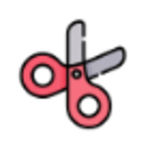
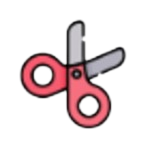
이미지 사이즈 수정

Changed region(s): [[0.1067, 0.1067, 0.8533, 0.88], [0.2133, 0.4267, 0.3733, 0.5867], [0.5067, 0.64, 0.6667, 0.7733]]

diff --git a/mainpage.css b/mainpage.css
@@ -394,11 +394,11 @@
     
 }
 
-.icons > li > .icon_img_ins {
+/* .icons > li > .icon_img_ins {
     margin-top: 55px;
-    transition: transform 0.3s; /* 호버 효과를 부드럽게 만들기 위한 transition 추가 */
+    transition: transform 0.3s; /* 호버 효과를 부드럽게 만들기 위한 transition 추가 
     
-}
+} */
 
 .icons > li > .icon_img:hover {
     transform: scale(1.2); /* 호버 시 아이콘 크기 확대 */
@@ -413,11 +413,11 @@
     margin-top: 18px;
 }
 
-.icons > li > .icon_menu_ins {
+/* .icons > li > .icon_menu_ins {
     font-size:18px;
     font-weight: bold;
     margin-top: 28px;
-}
+} */
 
 .footer > p {
     font-size: 15px;

diff --git a/index.html b/index.html
@@ -138,12 +138,12 @@
                         </div>
                     </li>
                     <li>
-                        <div class="icon_img_ins">
+                        <div class="icon_img">
                             <a href="https://erp.ubaseinternational.com/hypertexERP/warehouse/inspect/fabric">
                             <img src="image/inspect.png" alt="inspect icon">
                             </a>
                         </div>
-                        <div class="icon_menu_ins">
+                        <div class="icon_menu">
                             INSPECT
                         </div>
                     </li>
